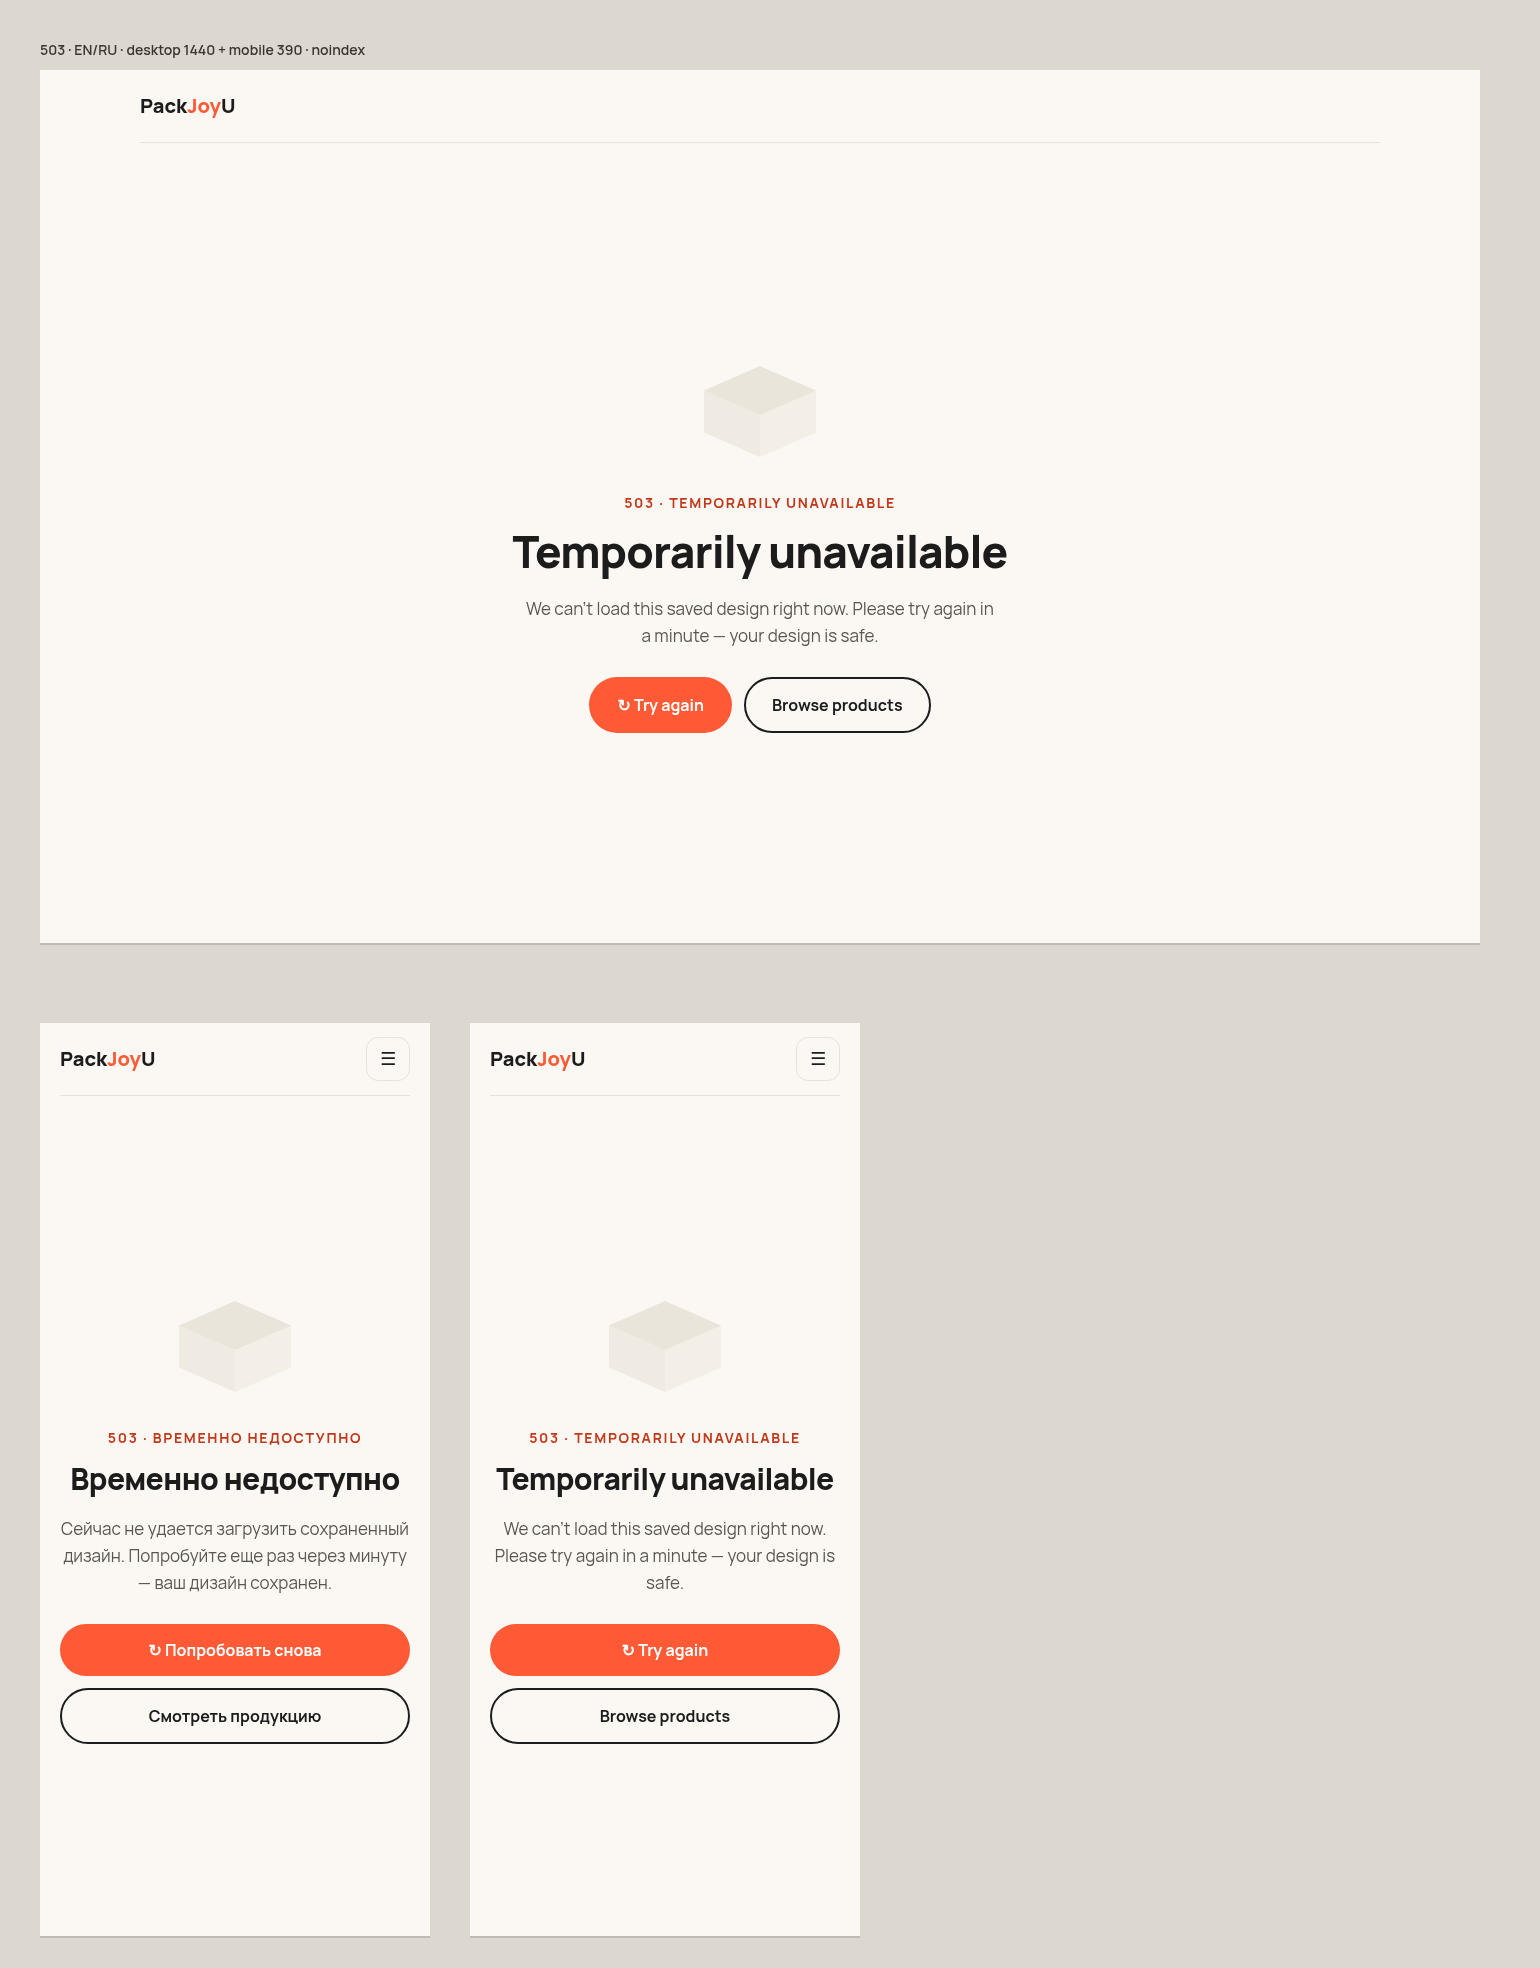
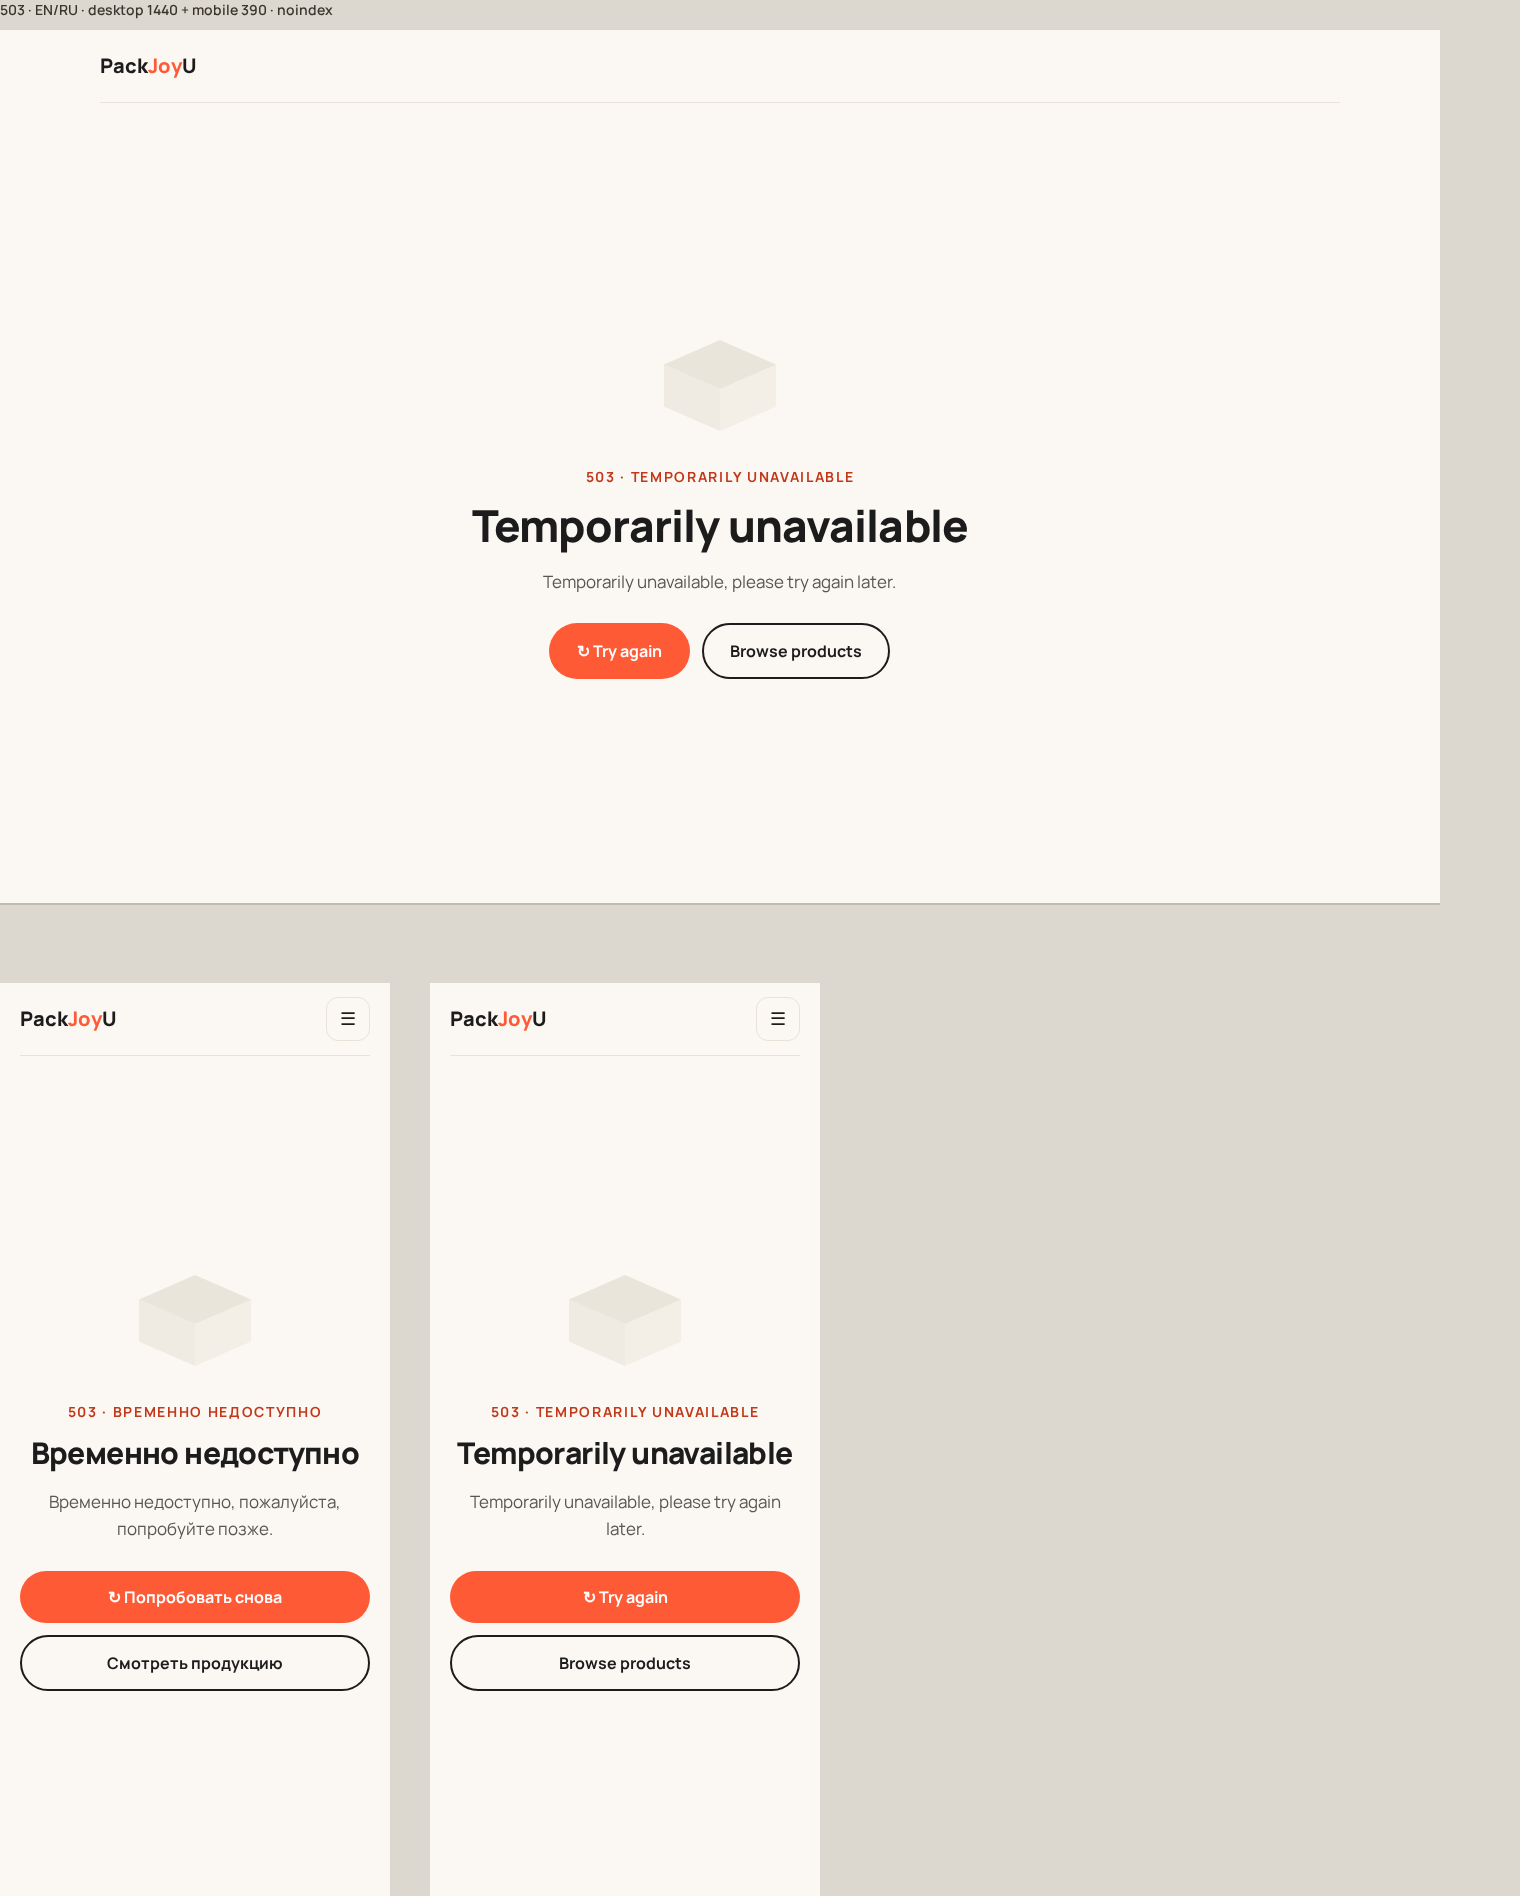
design(landing): 503 copy matches #215 exactly, drop 'design saved' line, re-export e503 (Refs #209)

Changed region(s): [[0.0, 0.0, 0.9586, 1.0], [0.3092, 0.2489, 0.6493, 0.3734]]

diff --git a/design/landing/category-landing.html b/design/landing/category-landing.html
@@ -203,8 +203,8 @@ function page({cat='corr',l='en',size='d',spec=SPEC_PARTIAL,theme='',faq=true,fo
  </div>`;
 }
 function optT(c){return `<table class="opt"><tbody>${c.opt.map(o=>`<tr><th scope="row">${o[0]}</th><td>${o[1]}</td></tr>`).join('')}</tbody></table>`}
-const E={en:{c:'503 · TEMPORARILY UNAVAILABLE',h:'Temporarily unavailable',p:'We can’t load this saved design right now. Please try again in a minute — your design is safe.',r:'Try again',h2:'Browse products',s:'Retrying automatically is off — tap “Try again”.'},
- ru:{c:'503 · ВРЕМЕННО НЕДОСТУПНО',h:'Временно недоступно',p:'Сейчас не удается загрузить сохраненный дизайн. Попробуйте еще раз через минуту — ваш дизайн сохранен.',r:'Попробовать снова',h2:'Смотреть продукцию',s:''}};
+const E={en:{c:'503 · TEMPORARILY UNAVAILABLE',h:'Temporarily unavailable',p:'Temporarily unavailable, please try again later.',r:'Try again',h2:'Browse products'},
+ ru:{c:'503 · ВРЕМЕННО НЕДОСТУПНО',h:'Временно недоступно',p:'Временно недоступно, пожалуйста, попробуйте позже.',r:'Попробовать снова',h2:'Смотреть продукцию'}};
 function e503(l,size){const e=E[l];return `<div class="frame ${size}" lang="${l}"><div class="wrap"><header class="hdr"><a class="logo" href="#">Pack<b>Joy</b>U</a><button class="burger" aria-label="Menu">☰</button></header></div>
  <main class="err"><div><div class="ill">${BOX('var(--line)')}</div><div class="code">${e.c}</div><h1>${e.h}</h1><p>${e.p}</p>
  <div class="ctas"><button class="btn btn-p">↻ ${e.r}</button><a class="btn btn-s" href="/${l}/products">${e.h2}</a></div></div></main></div>`}

diff --git a/design/landing/README.md b/design/landing/README.md
@@ -49,5 +49,5 @@ Spec values in the frames are **placeholders for layout only** (shape = `/api/sp
 - RU H1 uses `overflow-wrap:anywhere; hyphens:auto` so it doesn't scroll sideways at 360 (#194 lesson).
 
 ## 503 (`/s/<id>` DB down)
-- Theme C. `<h1>` Temporarily unavailable / Временно недоступно. Body text plus **Try again** (reloads) and **Browse products** → `/{locale}/products`.
+- Theme C. `<h1>` Temporarily unavailable / Временно недоступно. Copy matches #215 exactly — EN: “Temporarily unavailable, please try again later.” / RU: «Временно недоступно, пожалуйста, попробуйте позже.» (no “your design is saved” line). Plus **Try again** (reloads) and **Browse products** → `/{locale}/products`.
 - noindex + `no-store` + `Retry-After`. No error details shown. No SEO content.
